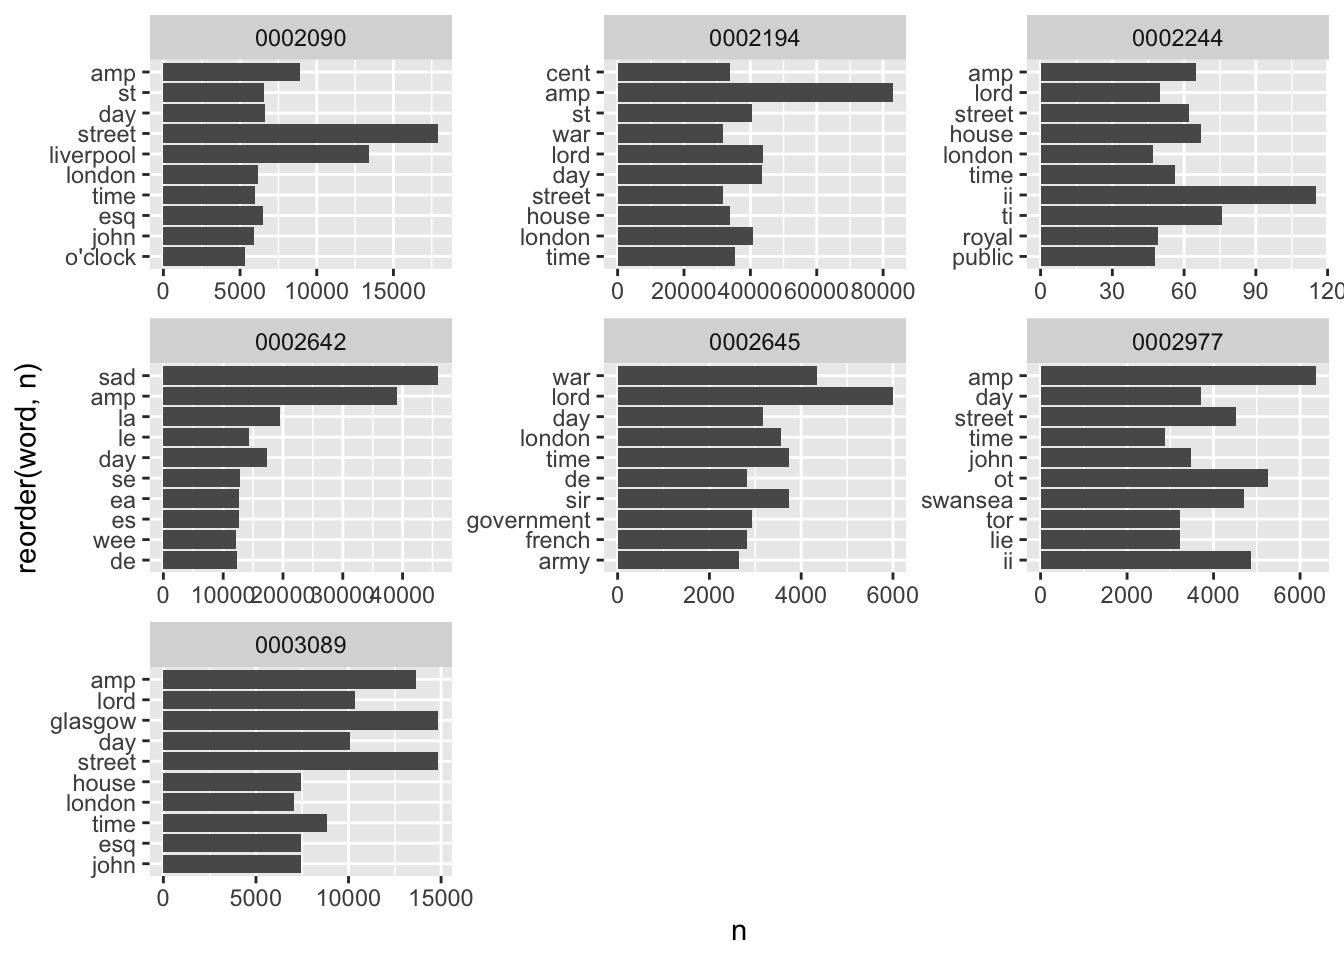
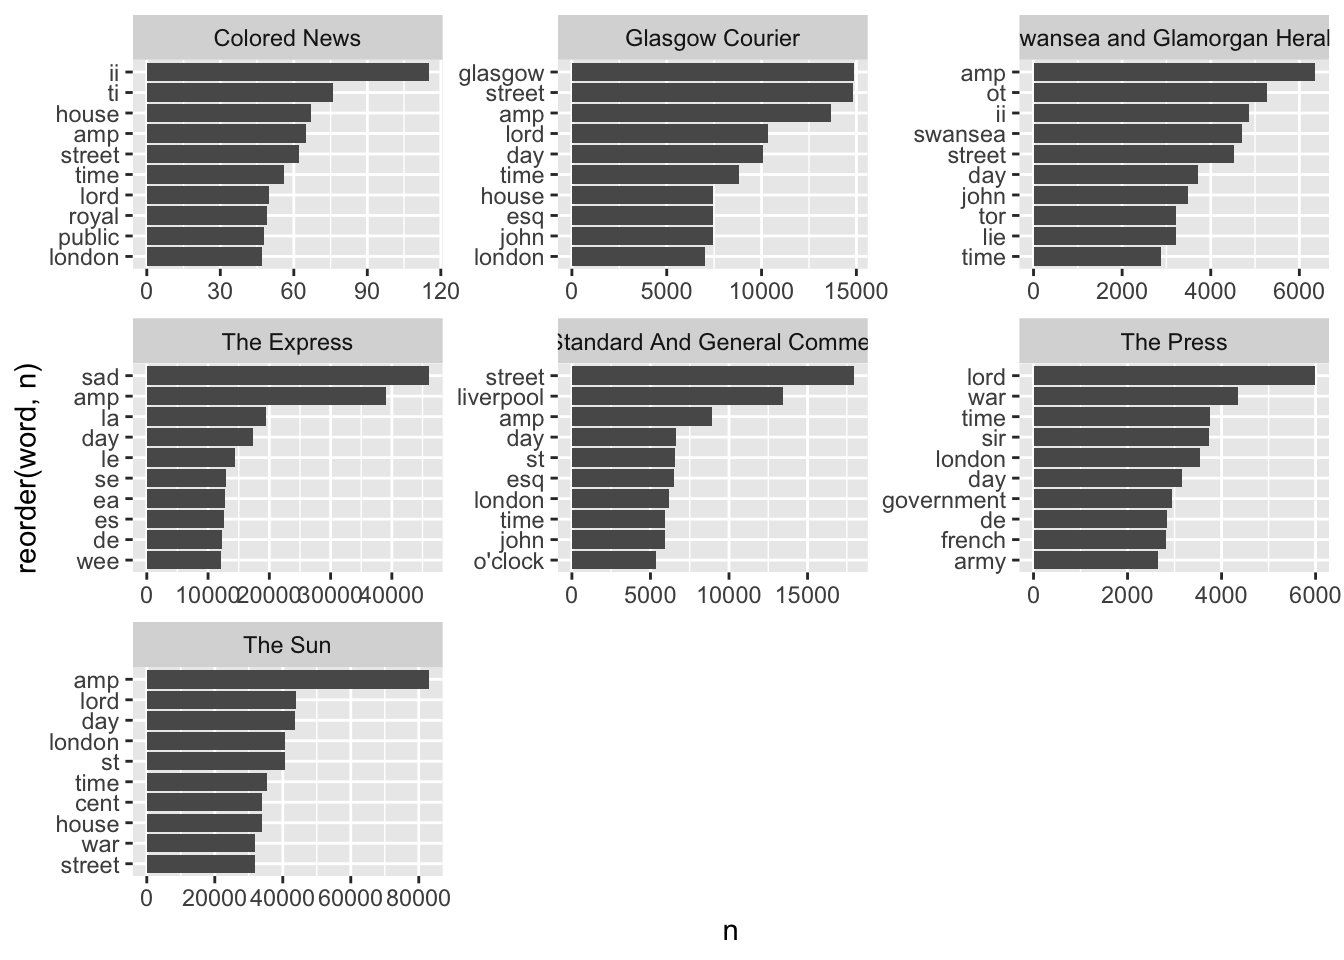
added GA

diff --git a/docs/term-freq.html b/docs/term-freq.html
@@ -315,7 +315,7 @@ pre > code.sourceCode > span > a:first-child::before { text-decoration: underlin
 </header>
 
 <p>The first thing you might want to do with a large dataset of text is to count the words within it. Doing this with newspaper data may help to discover and quantify trends, understand more about events, and make comparisons between the language in several titles. In this tutorial, we’ll use text mining to look for changing patterns in word use across the months of a single year.</p>
-<p>We should also think about the specific nature of each newspaper, and how this will affect the results. These are from a single year, but some are much more frequent than others. One, The Sun, is a daily, and so much more of the data comes from this title. They will also have different levels of OCR errors.</p>
+<p>We should also think about the specific nature of each newspaper, and how this will affect the results. These are from a single year, but some are much more frequent than others. One, <em>The Sun</em>, is a daily, and so much more of the data comes from this title. They will also have different levels of OCR errors.</p>
 <p>For this tutorial, you’ll make use of a few more R packages: <code>tidyverse</code>, which you should already have installed, <code>data.table</code>, and <code>tidytext</code>. If necessary, install these using the <code>install.packages()</code> command:</p>
 <div class="cell">
 <div class="sourceCode cell-code" id="cb1"><pre class="sourceCode r code-with-copy"><code class="sourceCode r"><span id="cb1-1"><a href="#cb1-1" aria-hidden="true" tabindex="-1"></a><span class="fu">install.packages</span>(<span class="st">'tidyverse'</span>)</span>
@@ -375,7 +375,7 @@ pre > code.sourceCode > span > a:first-child::before { text-decoration: underlin
 <p>The package we’re going to use for analysing the text is called ‘tidytext’. This package has many features for understanding and working with text, such as tokenising (splitting into words) and calculating the tf-idf scores of words in a group of documents. The authors of the package have published an entire book, <a href="https://www.tidytextmining.com/">Text Mining with R</a>, which is a very good introduction to text analysis with R.</p>
 <p>It’s a little different to the approach taken by, say, python, because it works on the principle of turning text into dataframes, in a format which is easy to work with in R. When we tokenise, for example, tidytext will create a dataframe which contains one row for each token. This is then easy to count, sort, filter, and so forth, using standard tidyverse tools.</p>
 <p>Simple word counts as a method are increasingly outdated, and modern text analysis is much more likely to use more sophisticated metrics and take the context into account. But a simple statistical analysis of text is still a useful and quick way of understanding a group of documents and getting an overview of their contents. It also is often the first step in further analysis, such as topic modelling or word embeddings.</p>
-<p>As a first step, take a look at the dataframe, using <code>glimpse()</code>:</p>
+<p>As a first step, take a look at the first few entries in the dataframe:</p>
 <div class="cell">
 <div class="sourceCode cell-code" id="cb6"><pre class="sourceCode r code-with-copy"><code class="sourceCode r"><span id="cb6-1"><a href="#cb6-1" aria-hidden="true" tabindex="-1"></a>news_df <span class="sc">%&gt;%</span> <span class="fu">mutate</span>(<span class="at">text =</span> <span class="fu">str_trunc</span>(text, <span class="dv">500</span>)) <span class="sc">%&gt;%</span> <span class="co"># show just the first part of the text for displaying in a dataframe</span></span>
 <span id="cb6-2"><a href="#cb6-2" aria-hidden="true" tabindex="-1"></a>  <span class="fu">head</span>(<span class="dv">5</span>) <span class="sc">%&gt;%</span> <span class="co"># show the first 5 rows </span></span>
@@ -1068,27 +1068,37 @@ pre > code.sourceCode > span > a:first-child::before { text-decoration: underlin
 </div>
 </div>
 <p>As well as a basic count of everything, we can use tidyverse/tidytable to do some more specific counts and visualisations.</p>
-<p>For example, a count of the top five words for each month in the data. For this, we need to create a ‘month’ column:</p>
+<p>For example, a count of the top five words for each month in the data. For this, we need to create a ‘month’ column, and use <code>facet_wrap()</code> from ggplot2 to graph each month separately. In order to have the results show correctly, we make use of the function <code>reorder_within</code> from the tidytext package. This is to ensure that the words are properly ordered within each facet, rather than overall.</p>
 <div class="cell">
 <div class="sourceCode cell-code" id="cb20"><pre class="sourceCode r code-with-copy"><code class="sourceCode r"><span id="cb20-1"><a href="#cb20-1" aria-hidden="true" tabindex="-1"></a>news_tokens <span class="sc">%&gt;%</span> </span>
 <span id="cb20-2"><a href="#cb20-2" aria-hidden="true" tabindex="-1"></a>  <span class="fu">mutate</span>(<span class="at">month =</span> <span class="fu">as.character</span>(<span class="fu">cut</span>(date, <span class="st">'month'</span>)))<span class="sc">%&gt;%</span> </span>
 <span id="cb20-3"><a href="#cb20-3" aria-hidden="true" tabindex="-1"></a>  <span class="fu">summarise.</span>(<span class="at">n =</span> <span class="fu">n.</span>(), <span class="at">.by =</span> <span class="fu">c</span>(month, word)) <span class="sc">%&gt;%</span> </span>
 <span id="cb20-4"><a href="#cb20-4" aria-hidden="true" tabindex="-1"></a>  <span class="fu">group_by</span>(month) <span class="sc">%&gt;%</span> </span>
-<span id="cb20-5"><a href="#cb20-5" aria-hidden="true" tabindex="-1"></a>  <span class="fu">slice_max</span>(<span class="at">order_by =</span> n, <span class="at">n =</span> <span class="dv">10</span>) <span class="sc">%&gt;%</span> </span>
-<span id="cb20-6"><a href="#cb20-6" aria-hidden="true" tabindex="-1"></a>  <span class="fu">ggplot</span>() <span class="sc">+</span> </span>
-<span id="cb20-7"><a href="#cb20-7" aria-hidden="true" tabindex="-1"></a>  <span class="fu">geom_col</span>(<span class="fu">aes</span>(<span class="at">x =</span> <span class="fu">reorder</span>(word, n), <span class="at">y =</span> n)) <span class="sc">+</span> </span>
-<span id="cb20-8"><a href="#cb20-8" aria-hidden="true" tabindex="-1"></a>  <span class="fu">coord_flip</span>() <span class="sc">+</span> <span class="fu">facet_wrap</span>(<span class="sc">~</span>month, <span class="at">scales =</span> <span class="st">'free_y'</span>)</span></code><button title="Copy to Clipboard" class="code-copy-button"><i class="bi"></i></button></pre></div>
+<span id="cb20-5"><a href="#cb20-5" aria-hidden="true" tabindex="-1"></a>  <span class="fu">slice_max</span>(<span class="at">order_by =</span> n, <span class="at">n =</span> <span class="dv">10</span>)  <span class="sc">%&gt;%</span> </span>
+<span id="cb20-6"><a href="#cb20-6" aria-hidden="true" tabindex="-1"></a>    <span class="fu">mutate</span>(<span class="at">month =</span> <span class="fu">as.factor</span>(month),</span>
+<span id="cb20-7"><a href="#cb20-7" aria-hidden="true" tabindex="-1"></a>           <span class="at">word =</span> <span class="fu">reorder_within</span>(word, n, month))<span class="sc">%&gt;%</span> </span>
+<span id="cb20-8"><a href="#cb20-8" aria-hidden="true" tabindex="-1"></a>  <span class="fu">ggplot</span>() <span class="sc">+</span> </span>
+<span id="cb20-9"><a href="#cb20-9" aria-hidden="true" tabindex="-1"></a>  <span class="fu">geom_col</span>(<span class="fu">aes</span>(<span class="at">x =</span> <span class="fu">reorder</span>(word, n), <span class="at">y =</span> n)) <span class="sc">+</span> </span>
+<span id="cb20-10"><a href="#cb20-10" aria-hidden="true" tabindex="-1"></a>  <span class="fu">coord_flip</span>() <span class="sc">+</span> </span>
+<span id="cb20-11"><a href="#cb20-11" aria-hidden="true" tabindex="-1"></a>  <span class="fu">facet_wrap</span>(<span class="sc">~</span>month, <span class="at">scales =</span> <span class="st">'free_y'</span>)<span class="sc">+</span></span>
+<span id="cb20-12"><a href="#cb20-12" aria-hidden="true" tabindex="-1"></a>    <span class="fu">scale_x_reordered</span>()</span></code><button title="Copy to Clipboard" class="code-copy-button"><i class="bi"></i></button></pre></div>
 <div class="cell-output-display">
 <p><img src="term-freq_files/figure-html/unnamed-chunk-19-1.png" class="img-fluid" width="672"></p>
 </div>
 </div>
-<p>We can also do it by issue code:</p>
+<p>We can also get the top words per newspaper title:</p>
 <div class="cell">
 <div class="sourceCode cell-code" id="cb21"><pre class="sourceCode r code-with-copy"><code class="sourceCode r"><span id="cb21-1"><a href="#cb21-1" aria-hidden="true" tabindex="-1"></a>news_tokens <span class="sc">%&gt;%</span> </span>
-<span id="cb21-2"><a href="#cb21-2" aria-hidden="true" tabindex="-1"></a>  <span class="fu">summarise.</span>(<span class="at">n =</span> <span class="fu">n.</span>(), <span class="at">.by =</span> <span class="fu">c</span>(newspaper_id, word)) <span class="sc">%&gt;%</span> </span>
-<span id="cb21-3"><a href="#cb21-3" aria-hidden="true" tabindex="-1"></a>  <span class="fu">group_by</span>(newspaper_id) <span class="sc">%&gt;%</span> </span>
+<span id="cb21-2"><a href="#cb21-2" aria-hidden="true" tabindex="-1"></a>  <span class="fu">summarise.</span>(<span class="at">n =</span> <span class="fu">n.</span>(), <span class="at">.by =</span> <span class="fu">c</span>(newspaper_title, word)) <span class="sc">%&gt;%</span> </span>
+<span id="cb21-3"><a href="#cb21-3" aria-hidden="true" tabindex="-1"></a>  <span class="fu">group_by</span>(newspaper_title) <span class="sc">%&gt;%</span> </span>
 <span id="cb21-4"><a href="#cb21-4" aria-hidden="true" tabindex="-1"></a>  <span class="fu">slice_max</span>(<span class="at">order_by =</span> n, <span class="at">n =</span> <span class="dv">10</span>) <span class="sc">%&gt;%</span> </span>
-<span id="cb21-5"><a href="#cb21-5" aria-hidden="true" tabindex="-1"></a>  <span class="fu">ggplot</span>() <span class="sc">+</span> <span class="fu">geom_col</span>(<span class="fu">aes</span>(<span class="at">x =</span> <span class="fu">reorder</span>(word, n), <span class="at">y =</span> n)) <span class="sc">+</span> <span class="fu">coord_flip</span>() <span class="sc">+</span> <span class="fu">facet_wrap</span>(<span class="sc">~</span>newspaper_id, <span class="at">scales =</span> <span class="st">'free'</span>)</span></code><button title="Copy to Clipboard" class="code-copy-button"><i class="bi"></i></button></pre></div>
+<span id="cb21-5"><a href="#cb21-5" aria-hidden="true" tabindex="-1"></a>    <span class="fu">mutate</span>(<span class="at">newspaper_title =</span> <span class="fu">as.factor</span>(newspaper_title),</span>
+<span id="cb21-6"><a href="#cb21-6" aria-hidden="true" tabindex="-1"></a>           <span class="at">word =</span> <span class="fu">reorder_within</span>(word, n, newspaper_title))<span class="sc">%&gt;%</span> </span>
+<span id="cb21-7"><a href="#cb21-7" aria-hidden="true" tabindex="-1"></a>  <span class="fu">ggplot</span>() <span class="sc">+</span> </span>
+<span id="cb21-8"><a href="#cb21-8" aria-hidden="true" tabindex="-1"></a>  <span class="fu">geom_col</span>(<span class="fu">aes</span>(<span class="at">x =</span> <span class="fu">reorder</span>(word, n), <span class="at">y =</span> n)) <span class="sc">+</span> </span>
+<span id="cb21-9"><a href="#cb21-9" aria-hidden="true" tabindex="-1"></a>  <span class="fu">coord_flip</span>() <span class="sc">+</span> </span>
+<span id="cb21-10"><a href="#cb21-10" aria-hidden="true" tabindex="-1"></a>  <span class="fu">facet_wrap</span>(<span class="sc">~</span>newspaper_title, <span class="at">scales =</span> <span class="st">'free'</span>)<span class="sc">+</span></span>
+<span id="cb21-11"><a href="#cb21-11" aria-hidden="true" tabindex="-1"></a>    <span class="fu">scale_x_reordered</span>()</span></code><button title="Copy to Clipboard" class="code-copy-button"><i class="bi"></i></button></pre></div>
 <div class="cell-output-display">
 <p><img src="term-freq_files/figure-html/unnamed-chunk-20-1.png" class="img-fluid" width="672"></p>
 </div>
@@ -1318,7 +1328,7 @@ pre > code.sourceCode > span > a:first-child::before { text-decoration: underlin
 </div>
 </div>
 <p>Now, we have a new object with new columns. The first is <code>tf</code>, which is simply the frequency of that term as a proportion of all words in the document. Next is <code>idf</code>, which is the inverse of the frequency of the word over all the documents. The less frequent a word is overall, the larger the number in this column. Third is <code>tf_idf</code>, which multiples one by the other.</p>
-<p>To make use of this, we want to find the words with the highest tf-idf scores for each of the documents. Let’s do this and plot the results. In order to have the results show correctly, we make use of the function <code>reorder_within</code> from the tidytext package. This is to ensure that the words are properly ordered within each facet, rather than overall.</p>
+<p>To make use of this, we want to find the words with the highest tf-idf scores for each of the documents. Let’s do this and plot the results:</p>
 <div class="cell">
 <div class="sourceCode cell-code" id="cb26"><pre class="sourceCode r code-with-copy"><code class="sourceCode r"><span id="cb26-1"><a href="#cb26-1" aria-hidden="true" tabindex="-1"></a>news_tfidf <span class="sc">%&gt;%</span> </span>
 <span id="cb26-2"><a href="#cb26-2" aria-hidden="true" tabindex="-1"></a>  <span class="fu">group_by</span>(newspaper_id) <span class="sc">%&gt;%</span> </span>
